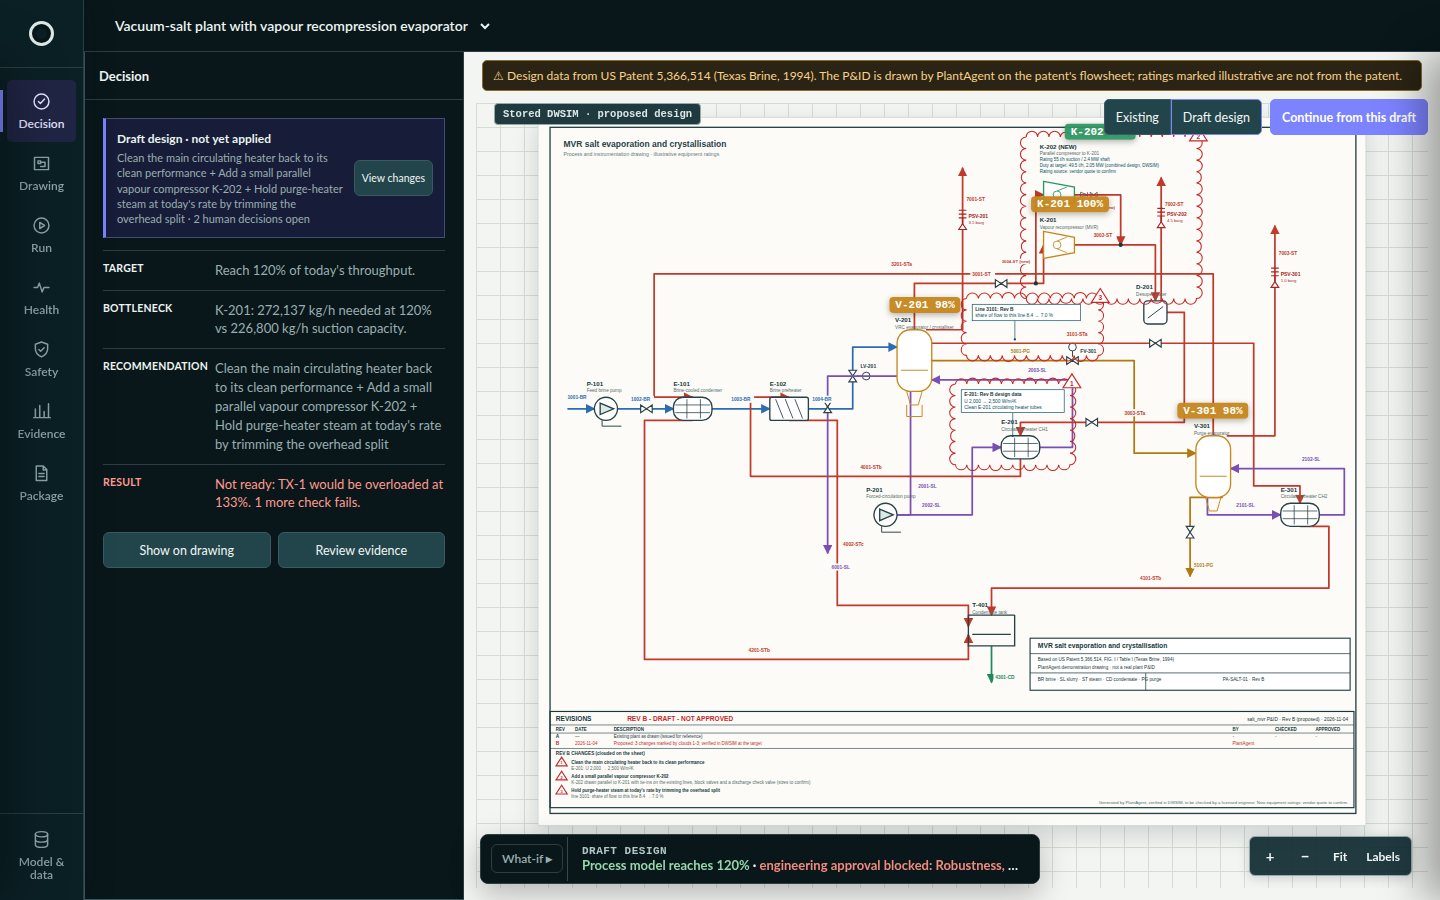
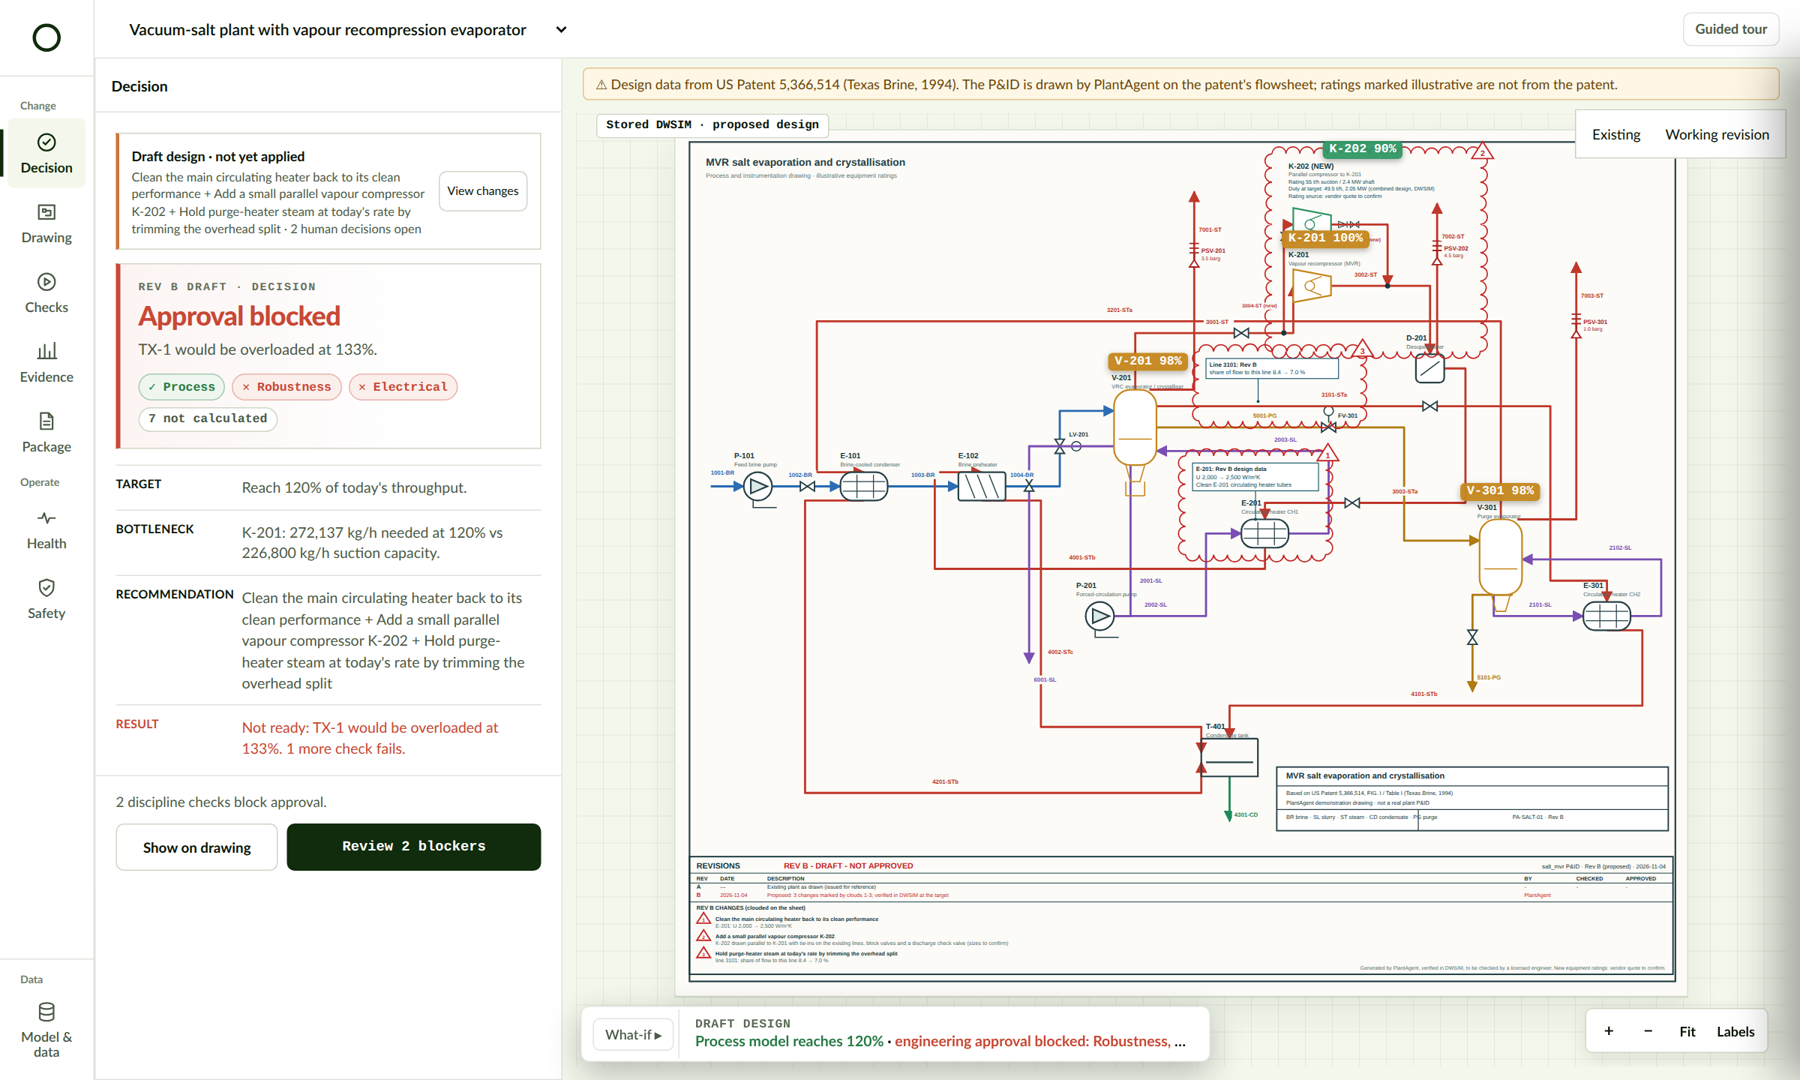
A clean clone or the hosted replay offers no workspace whose source PDF is not redistributed (Roseburg, Edgebrook, St. Pete keep their stored study); bt_column drawing path fixed; README screenshot in the paper theme

diff --git a/web/home.html b/web/home.html
@@ -506,7 +506,7 @@ json('/api/plant/salt_mvr/project').then(project => {
       const task = label || c?.task_type || p.task_type;
       const score = c?.benchmark && c.score != null ? `<div class="score">Matched ${Math.round(c.score * 100)}% of the engineers' conclusions</div><div class="bar"><i style="width:${c.score * 100}%"></i></div>` :
         p?.kind === "process" ? `<div class="score" style="color:var(--muted)">${p.engine === "watertap" ? "WaterTAP template model · Muse answers the questions" : p.built ? (["pandapower", "trapped"].includes(p.engine) || p.task_type === "incident" ? "Model built by Muse from the investigation report" : "Model built by Muse from the drawing and data sheet") : "Drawing read by Muse; simulation model not reliable yet"}</div>` : `<div class="score" style="color:var(--muted)">Not benchmarked</div>`;
-      const open = p?.kind === "process" ? `<a class="btn go" href="plant.html?case=${id}">Explore case</a>` :
+      const open = p?.kind === "process" && p.workspace !== false ? `<a class="btn go" href="plant.html?case=${id}">Explore case</a>` :
         p?.workspace ? `<a class="btn go" href="workspace.html?case=${id}">Explore case</a>` : "";
       const replay = c?.runs?.length ? `<a class="btn" href="index.html?case=${id}">View study replay</a>` : "";
       if (!open && !replay) return "";  // nothing to open: not a card

diff --git a/plantagent/web.py b/plantagent/web.py
@@ -854,6 +854,15 @@ def start_run(case):
 FORM_TYPES = {"application/x-www-form-urlencoded", "multipart/form-data", "text/plain"}
 
 
+
+def _sources_ok(name):
+    """Whether the source file a case's workspace must read (its main PDF or drawing) is on this machine. Public PDFs are
+    not redistributed, so a clean clone or the hosted replay lists the case and its stored study but offers no workspace
+    that cannot load. Supporting documents are optional and not checked."""
+    cfg = json.loads((ROOT / "cases" / name / "case.json").read_text())
+    return all(data_path(f).exists() for f in (cfg.get("pdf"), cfg.get("pid")) if isinstance(f, str) and not f.startswith("http"))
+
+
 class Handler(SimpleHTTPRequestHandler):
     def __init__(self, *a, **kw):
         a[0].settimeout(15)
@@ -1304,10 +1313,10 @@ class Handler(SimpleHTTPRequestHandler):
                 return self._send({"error": str(e)}, code=400)
         if parts[:2] == ["api", "projects"]:
             return self._send([{"case": n, "kind": "study", "title": Case(n).cfg["title"], "task_type": Case(n).cfg["task_type"],
-                                "workspace": "workspace" in Case(n).cfg} for n in all_cases()] +
+                                "workspace": "workspace" in Case(n).cfg and _sources_ok(n)} for n in all_cases()] +
                               [{"case": n, "kind": "process", "built": (RUNS / "ws" / n / "model.json").exists(), "status": project_status(n),
                                 "title": json.loads((ROOT / "cases" / n / "case.json").read_text())["title"],
-                                "task_type": json.loads((ROOT / "cases" / n / "case.json").read_text())["task_type"], "workspace": True,
+                                "task_type": json.loads((ROOT / "cases" / n / "case.json").read_text())["task_type"], "workspace": _sources_ok(n),
                                 "engine": json.loads((ROOT / "cases" / n / "case.json").read_text()).get("engine", "dwsim")}
                                for n in all_cases("process")])
         if parts == ["api", "voice"] and method == "POST":  # push-to-talk on any page; paid, so gated like other runs
